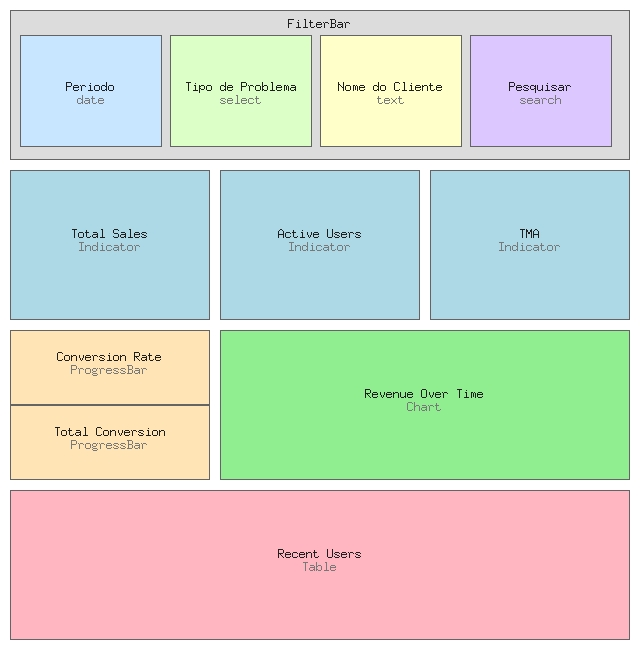
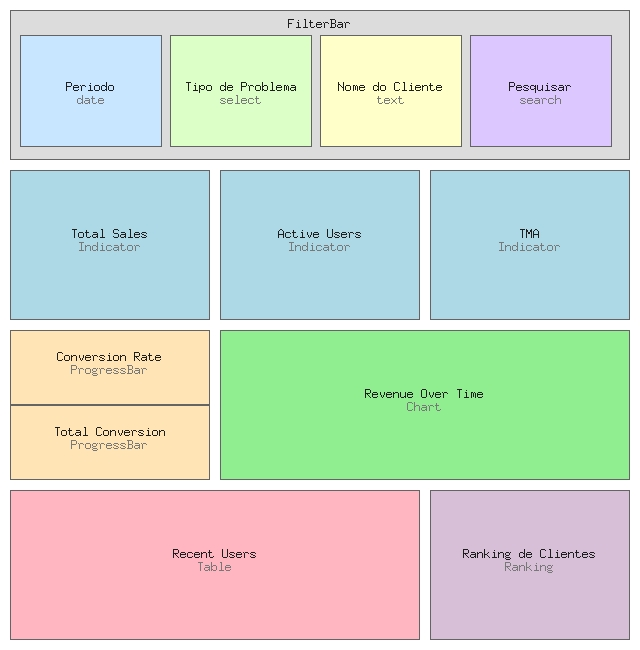
feat: add ranking

diff --git a/widgets.go b/widgets.go
@@ -412,3 +412,65 @@ func (f *FilterColor) Render() map[string]interface{} {
 		"value": f.Value,
 	}
 }
+
+type RankingItem struct {
+	Position    int    `json:"position"`
+	ImageURL    string `json:"imageUrl,omitempty"`
+	Title       string `json:"title"`
+	Description string `json:"description,omitempty"`
+}
+
+func NewRankingItem(position int, title string, description string, imageURL string) RankingItem {
+	return RankingItem{
+		Position:    position,
+		ImageURL:    imageURL,
+		Title:       title,
+		Description: description,
+	}
+}
+
+type Ranking struct {
+	BaseWidget
+	Title string        `json:"title"`
+	Items []RankingItem `json:"items"`
+	Order string        `json:"order"` // "asc" ou "desc"
+}
+
+func NewRanking(title string) *Ranking {
+	return &Ranking{
+		Title: title,
+		Items: []RankingItem{},
+		Order: "desc",
+	}
+}
+
+func (r *Ranking) AddItem(item RankingItem) {
+	r.Items = append(r.Items, item)
+}
+
+func (r *Ranking) SetOrder(order string) {
+	if order == "asc" || order == "desc" {
+		r.Order = order
+	}
+}
+
+func (r *Ranking) Render() map[string]interface{} {
+	items := []map[string]interface{}{}
+	for _, it := range r.Items {
+		item := map[string]interface{}{
+			"position":    it.Position,
+			"title":       it.Title,
+			"description": it.Description,
+		}
+		if it.ImageURL != "" {
+			item["imageUrl"] = it.ImageURL
+		}
+		items = append(items, item)
+	}
+	return map[string]interface{}{
+		"type":  "ranking",
+		"title": r.Title,
+		"order": r.Order,
+		"items": items,
+	}
+}

diff --git a/example/main.go b/example/main.go
@@ -65,7 +65,14 @@ func main() {
 	mainGrid.AddItem(tma, 1, 2, 1, 1)
 	mainGrid.AddItem(nestedGrid, 2, 0, 1, 1)
 	mainGrid.AddItem(revenueChart, 2, 1, 1, 2) // Spans 2 columns
-	mainGrid.AddItem(userTable, 3, 0, 1, 3)
+	mainGrid.AddItem(userTable, 3, 0, 1, 2)
+
+	ranking := bussola.NewRanking("Ranking de Clientes")
+	ranking.AddItem(bussola.NewRankingItem(1, "Empresa Alpha", "Maior faturamento", "https://randomuser.me/api/portraits/men/1.jpg"))
+	ranking.AddItem(bussola.NewRankingItem(2, "Empresa Beta", "Crescimento rápido", "https://randomuser.me/api/portraits/women/2.jpg"))
+	ranking.AddItem(bussola.NewRankingItem(3, "Empresa Gama", "Melhor avaliação", "https://randomuser.me/api/portraits/men/3.jpg"))
+	ranking.SetOrder("desc")
+	mainGrid.AddItem(ranking, 3, 2, 1, 1)
 
 	// Set the main grid as the dashboard layout
 	dashboard.SetLayout(mainGrid)

diff --git a/preview/preview.go b/preview/preview.go
@@ -97,6 +97,8 @@ func getComponentName(component bussola.Component) string {
 		return "ProgressBar"
 	case *bussola.FilterBar:
 		return "FilterBar"
+	case *bussola.Ranking:
+		return "Ranking"
 	default:
 		return ""
 	}
@@ -330,6 +332,8 @@ func drawComponent(img *image.RGBA, x, y, w, h int, c color.Color, name string, 
 		title = c.Title
 	case *bussola.Grid:
 		title = c.Title
+	case *bussola.Ranking:
+		title = c.Title
 	}
 
 	if title != "" {
@@ -388,6 +392,8 @@ func getComponentColor(component bussola.Component) color.Color {
 		return color.RGBA{255, 255, 224, 255} // Light yellow
 	case *bussola.FilterBar:
 		return color.RGBA{220, 220, 220, 255} // Light gray
+	case *bussola.Ranking:
+		return color.RGBA{216, 191, 216, 255} // Light purple
 	default:
 		return color.RGBA{240, 240, 240, 255} // Light gray
 	}
